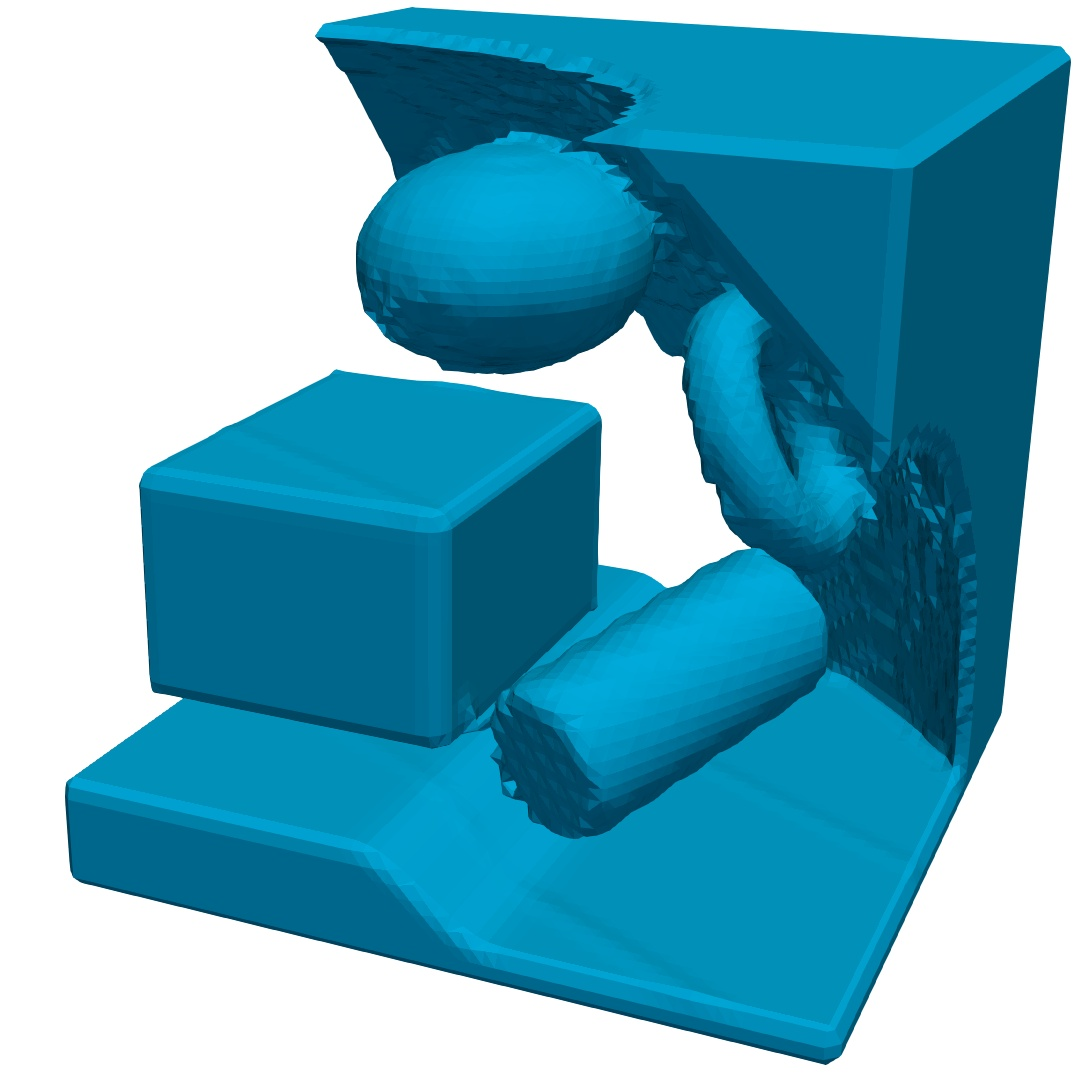
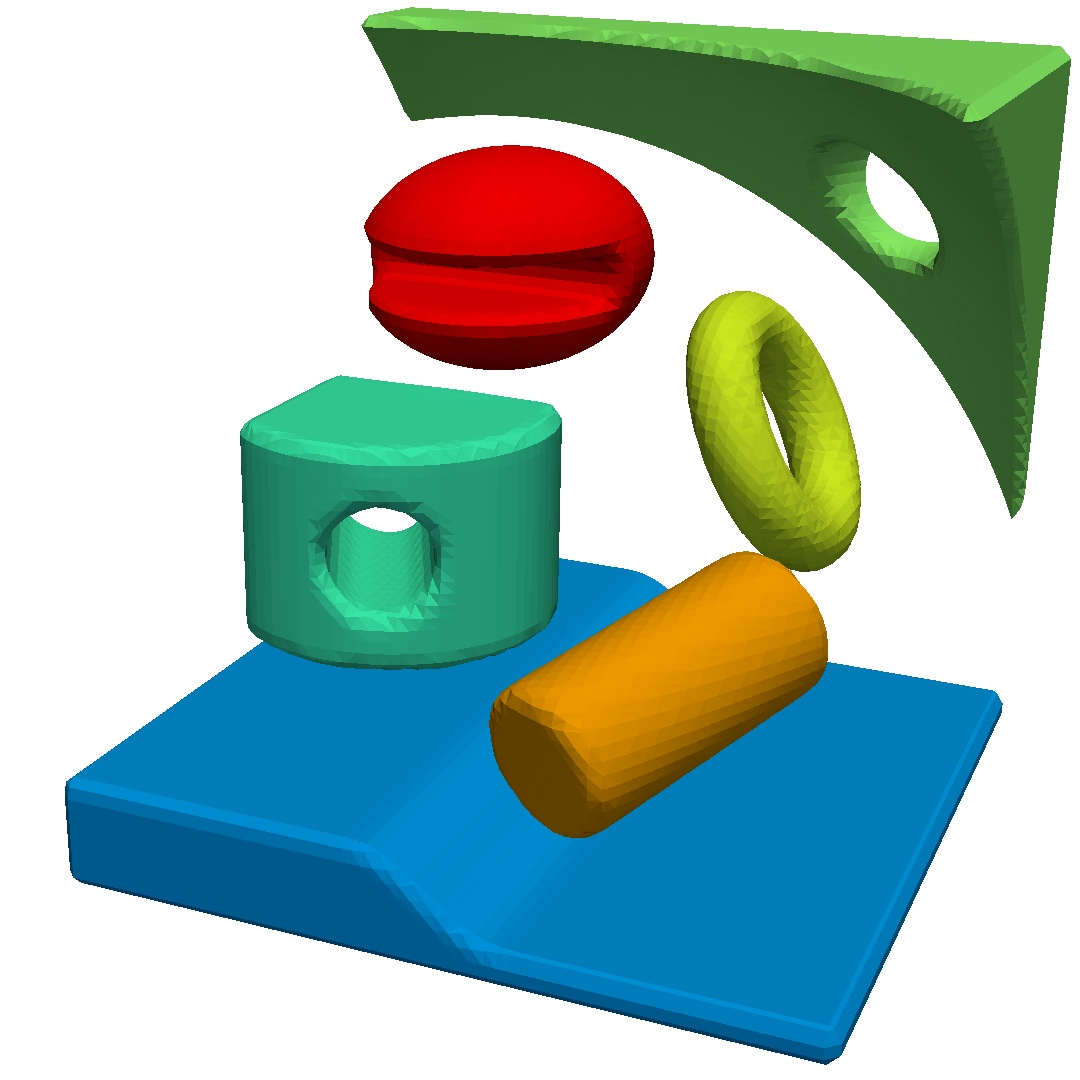
primlist: add modifiers & and -

diff --git a/src/func/primlist.h b/src/func/primlist.h
@@ -22,10 +22,10 @@ template <class Scal>
 struct Primitive {
   static constexpr size_t dim = 3;
   using Vect = GVect<Scal, dim>;
-  enum class Mod { plus, minus, star };
 
   std::string name;
-  Mod mod;
+  bool mod_minus = false;
+  bool mod_and = false;
   std::function<Scal(const Vect&)> ls; // level-set
   std::function<bool(const Rect<Vect>&)> inter; // true if intersects rectangle
   std::function<Vect(const Vect&)> vel; // velocity
@@ -34,18 +34,12 @@ struct Primitive {
   Vect r; // radius XXX adhoc for GetSphereOverlap
 
   Primitive(std::string name)
-      : name(name)
-      , mod(Mod::plus)
-      , inter([](const Rect<Vect>&) -> bool { return true; }) {}
+      : name(name), inter([](const Rect<Vect>&) -> bool { return true; }) {}
   Primitive() : Primitive("") {}
 
   friend std::ostream& operator<<(std::ostream& o, const Primitive<Scal>& p) {
     o << "name='" << p.name << "'";
-    std::string smod;
-    if (p.mod == Mod::plus) smod = "+";
-    if (p.mod == Mod::minus) smod = "-";
-    if (p.mod == Mod::star) smod = "*";
-    o << " mod='" << smod << "'";
+    o << " mod='" << (p.mod_minus ? "-" : "") << (p.mod_and ? "&" : "") << "'";
     return o;
   }
 };
@@ -182,7 +176,10 @@ struct UPrimList {
       const Vect dx = x - xc;
       const Scal dt = t.dot(dx);
       const Scal dr = (dx - t * dt).norm();
-      return dt < t0 ? dt - t0 : dt > t1 ? t1 - dt : r - dr;
+      Scal q = r - dr;
+      if (dt < t0) q = std::min(q, dt - t0);
+      if (dt > t1) q = std::min(q, t1 - dt);
+      return q;
     };
     p.name = "cylinder";
     return true;
@@ -211,23 +208,23 @@ struct UPrimList {
 
       Primitive p;
 
-      using Mod = typename Primitive::Mod;
-      auto pair = ExtractModifier(s);
-      s = pair.second;
-      switch (pair.first) {
-        case ' ':
-        case '+':
-          p.mod = Mod::plus;
+      while (true) {
+        auto pair = ExtractModifier(s, "-&");
+        if (pair.first == ' ') {
           break;
-        case '-':
-          p.mod = Mod::minus;
-          break;
-        case '*':
-          p.mod = Mod::star;
-          break;
-        default:
-          throw std::runtime_error(
-              std::string("PrimList: unknown mod='") + pair.first + "'");
+        }
+        s = pair.second;
+        switch (pair.first) {
+          case '-':
+            p.mod_minus = true;
+            break;
+          case '&':
+            p.mod_and = true;
+            break;
+          default:
+            throw std::runtime_error(
+                std::string("PrimList: unknown mod='") + pair.first + "'");
+        }
       }
 
       bool r = false;
@@ -237,7 +234,7 @@ struct UPrimList {
       if (!r) r = ParseSmoothStep(s, p);
       if (!r) r = ParseCylinder(s, p);
 
-      if (p.mod == Mod::minus) {
+      if (p.mod_minus) {
         p.inter = [](const Rect<Vect>&) -> bool { return true; };
       }
 
@@ -362,7 +359,9 @@ struct UPrimList {
     return s.substr(0, s.find('#', 0));
   }
 
-  static std::pair<char, std::string> ExtractModifier(std::string s) {
+  // mods: string with allowed modifier characters (e.g. "-*")
+  static std::pair<char, std::string> ExtractModifier(
+      std::string s, std::string mods) {
     std::stringstream ss(s);
     ss >> std::skipws;
     std::string word;
@@ -371,7 +370,7 @@ struct UPrimList {
       return {' ', s};
     }
     const char c = word[0];
-    if (c == '+' || c == '-' || c == '*') {
+    if (mods.find(c) != std::string::npos) {
       std::string rest;
       std::getline(ss, rest);
       return {c, word.substr(1) + ' ' + rest};

diff --git a/src/func/init_u.h b/src/func/init_u.h
@@ -151,38 +151,21 @@ FieldCell<typename M::Scal> GetPositiveVolumeFraction(
   auto ffs = GetPositiveAreaFraction(fnl, m);
   FieldCell<Scal> fcu(m, 0);
   for (auto c : m.Cells()) {
-    size_t q = 0; // number of nodes with fnl > 0
-    const size_t mi = m.GetNumNodes(c);
-    for (size_t i = 0; i < mi; ++i) {
-      if (fnl[m.GetNode(c, i)] > 1e-16) { // FIXME may lead to zero area
-        ++q;
-      }
+    Vect nn(0); // normal
+    for (auto q : m.Nci(c)) {
+      const IdxFace f = m.GetFace(c, q);
+      nn += m.GetNormal(f) * ffs[f] * m.GetOutwardFactor(c, q);
     }
-    Scal u;
-    if (q == mi) { // cell inside
-      u = 1;
-    } else if (q > 0) { // cut cell
-      Vect nn(0); // normal
+    Scal u = 0;
+    if (nn.norm1() == 0) {
       for (auto q : m.Nci(c)) {
-        const IdxFace f = m.GetFace(c, q);
-        nn += m.GetNormal(f) * ffs[f] * m.GetOutwardFactor(c, q);
+        u += ffs[m.GetFace(c, q)];
       }
-      if (nn.norm1() == 0 || IsNan(nn.norm1())) {
-        for (auto q : m.Nci(c)) {
-          const IdxFace f = m.GetFace(c, q);
-          std::cout <<  m.GetNormal(f) * ffs[f] * m.GetOutwardFactor(c, q) << " ";
-          std::cout << std::endl;
-        }
-        for (size_t i = 0; i < mi; ++i) {
-          std::cout << fnl[m.GetNode(c, i)] << " ";
-          std::cout << std::endl;
-        }
-        std::terminate();
-      }
+      u /= m.Nci(c).size();
+    } else {
       nn /= -nn.norm1();
-
       Scal a = 0; // plane constant
-      Scal aw = 0;
+      size_t aw = 0;
       for (auto q : m.Nci(c)) {
         const IdxFace f = m.GetFace(c, q);
         const size_t em = m.GetNumNodes(f);
@@ -195,16 +178,15 @@ FieldCell<typename M::Scal> GetPositiveVolumeFraction(
           const Vect x = m.GetNode(n);
           const Vect xp = m.GetNode(np);
 
-          if ((l < 0) != (lp < 0)) {
+          if (l * lp < 0) {
             a += nn.dot(GetIso(x, xp, l, lp) - m.GetCenter(c));
             aw += 1;
           }
         }
       }
+      assert(aw > 0);
       a /= aw;
       u = R::GetLineU(nn, a, m.GetCellSize());
-    } else { // cell outside
-      u = 0;
     }
     fcu[c] = u;
   }
@@ -241,19 +223,17 @@ void InitVfList(
   if (pp.empty()) {
     fc.Reinit(m, 0.);
   } else {
-    using Mod = typename Primitive::Mod;
     auto lsmax = [&pp](Vect x) -> std::pair<Scal, size_t> {
       Scal lmax = -std::numeric_limits<Scal>::max(); // maximum level-set
       size_t imax = 0; // index of maximum
       for (size_t i = 0; i < pp.size(); ++i) {
         auto& p = pp[i];
         Scal li = p.ls(x);
-        if (p.mod == Mod::minus) {
+        if (p.mod_minus) {
           li = -li;
         }
-        if (p.mod == Mod::star && li <= 0) {
-          lmax = li;
-          imax = i;
+        if (p.mod_and) {
+          lmax = std::min(lmax, li);
         } else {
           if (li > lmax) {
             lmax = li;

diff --git a/src/func/init_cl.h b/src/func/init_cl.h
@@ -67,29 +67,28 @@ CreateInitCl(const Vars& par, bool verb) {
         return;
       }
 
-      using Mod = typename UPrimList<Scal>::Primitive::Mod;
       for (auto c : m.Cells()) {
         if (vf[c] > 0.) {
           auto x = m.GetCenter(c);
           Scal lmax = -std::numeric_limits<Scal>::max(); // maximum level-set
-          size_t imax = 0; // index of maximum
+          Scal clmax = 0; // color of maximum
           for (size_t i = 0; i < pp.size(); ++i) {
             auto& p = pp[i];
             Scal li = p.ls(x);
-            if (p.mod == Mod::minus) {
+            if (p.mod_minus) {
               li = -li;
             }
-            if (p.mod == Mod::star && li <= 0) {
+            if (p.mod_and && li < 0 && lmax >= 0) {
               lmax = li;
-              imax = i;
+              clmax = kClNone;
             } else {
               if (li > lmax) {
                 lmax = li;
-                imax = i;
+                clmax = i;
               }
             }
           }
-          cl[c] = imax;
+          cl[c] = clmax;
         }
       }
     };

diff --git a/examples/200_primlist/plot.py b/examples/200_primlist/plot.py
@@ -22,11 +22,11 @@ clLUT = GetColorTransferFunction('cl')
 clLUT.AutomaticRescaleRangeMode = 'Never'
 clLUT.RGBPoints = [
         -1.5, 0.0, 0.0, 0.5625,
-        -0.9444449999999996, 0.0, 0.0, 1.0,
-        0.3253975, 0.0, 1.0, 1.0,
-        1, 0.5, 1.0, 0.5,
-        2, 1.0, 1.0, 0.0,
-        4, 1, 0.0, 0.0,
+        -0.5, 0.0, 0.0, 1.0,
+        0.3, 0.0, 1.0, 1.0,
+        1.8, 0.5, 1.0, 0.5,
+        3.5, 1.0, 1.0, 0.0,
+        5, 1, 0.0, 0.0,
         ]
 clLUT.ColorSpace = 'RGB'
 clLUT.NanColor = [0.498039215686, 0.498039215686, 0.498039215686]
